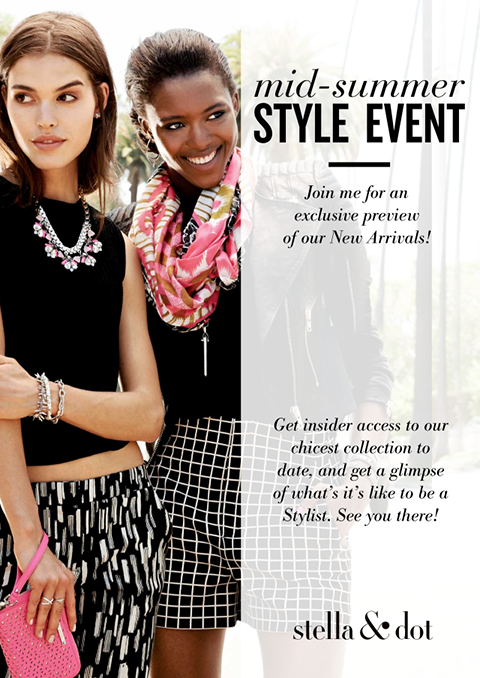
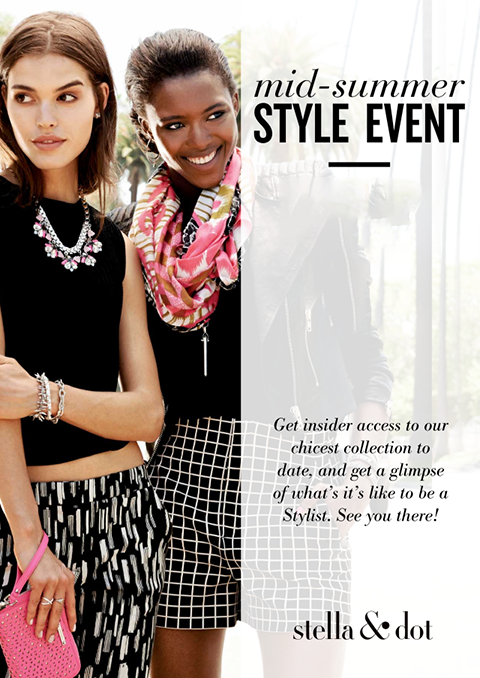
ccc

Changed region(s): [[0.5938, 0.2788, 0.9062, 0.3717]]

diff --git a/card_flip/index.html b/card_flip/index.html
@@ -20,8 +20,23 @@
 	<p class="logo">Host a Trunk Show! <br/><a href="#"> <img src="sd_logo-color.svg" alt="S & D" /></a> <br/>Filled with friends and fashion!</p>
 	<div>
 		<section class="front side">
-		  <img src="midsum_front.png" alt=">##FirstName## ##LastName##"/>
-			<h1>##FirstName##</h1>
+         <form class="form" method="post" z-index="25" >
+<p>Your First Name:<br />
+<input name="firstname" type="text" value="##firstname##" /></p>
+
+<p>Your Last Name:<br />
+<input name="lastname" type="text" value="##lastname##" /></p>
+
+<p>In what state do you live?<br />
+<input name="state" type="text" value="##state##" /></p>
+
+<p>email recipients:<br />
+<input name="email" type="text" value="##email##" /></p>
+
+<p><input type="submit" value="Send Email" /></p>
+</form>
+<img src="midsum_front.png" alt=">##FirstName## ##LastName##"/>
+         	<h1>##FirstName##</h1>
 			<h2>StellaDot Stylist <a href="http://twitter.com/##TwiiterAccount##" title="STELLA DOT">##TwiiterAccount##</a>. Hello, dream job! .</h2>
 			<p class="rotate_button"></p>
 	  </section>

diff --git a/card_flip/style.css b/card_flip/style.css
@@ -71,6 +71,15 @@ div {
   box-shadow: inset 0 0 1px rgba(255,255,255,0.3), inset 0 -60px 70px rgba(0,0,0,0.2), 0 2px 7px 1px rgba(0,0,0,0.4), 0 0 25px 3px rgba(0,0,0,0.3);
 }
 
+.form {
+	color: #fff !important;
+	font-weight: bold;
+	display: float;
+	position: inherit;
+	padding-left: 275px;
+	padding-top: 175px;
+}
+
 /* the button that flips the card (same for both sides) */
 .rotate_button:after {
   font-family: 'WebSymbolsRegular';
